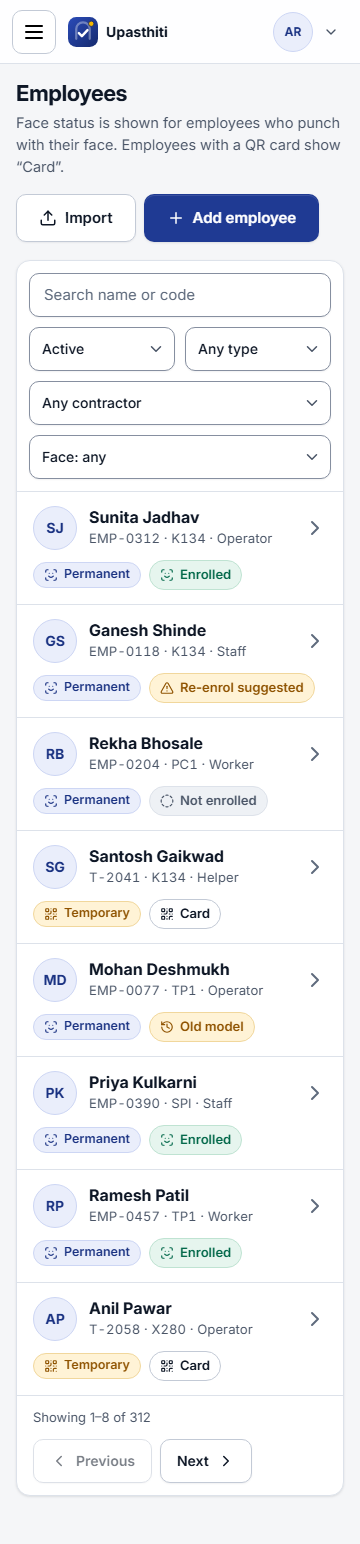
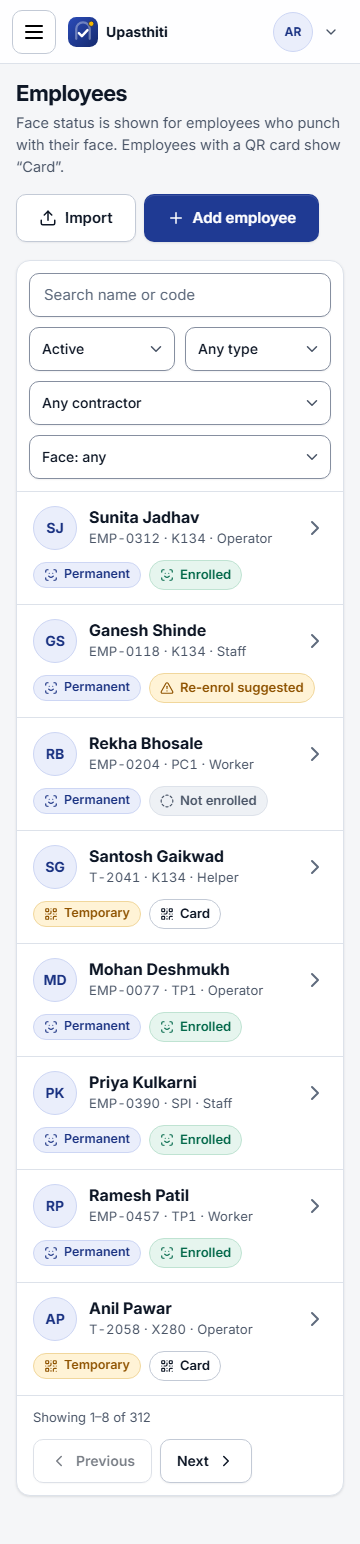
feat(face): five enrolment poses and a one hour idle limit (decision 0018), mockups without sample old-model rows

Changed region(s): [[0.3972, 0.6528, 0.7028, 0.6839]]

diff --git a/docs/design-refs/m3/gate-b/04-employees-list.html b/docs/design-refs/m3/gate-b/04-employees-list.html
@@ -40,7 +40,7 @@
     ["Ganesh Shinde", "EMP-0118", "permanent", "K134", "Staff", "General", "reenrol"],
     ["Rekha Bhosale", "EMP-0204", "permanent", "PC1", "Worker", "General", "none"],
     ["Santosh Gaikwad", "T-2041", "temporary", "K134", "Helper", "General", "card"],
-    ["Mohan Deshmukh", "EMP-0077", "permanent", "TP1", "Operator", "General", "old"],
+    ["Mohan Deshmukh", "EMP-0077", "permanent", "TP1", "Operator", "General", "enrolled"],
     ["Priya Kulkarni", "EMP-0390", "permanent", "SPI", "Staff", "General", "enrolled"],
     ["Ramesh Patil", "EMP-0457", "permanent", "TP1", "Worker", "General", "enrolled"],
     ["Anil Pawar", "T-2058", "temporary", "X280", "Operator", "General", "card"],
@@ -54,11 +54,11 @@
   function toolbar(state) {
     const faceVal = state === "filtered" ? "Face: Re-enrol suggested" : "Face: any";
     const pop = state === "filter-open" ? `<div class="pop" role="listbox" aria-label="Face filter">
-      <div class="sel-on" role="option" aria-selected="true"><i data-lucide="check"></i>Any<span class="count">312</span></div>
-      <div role="option"><i data-lucide="scan-face"></i>Enrolled<span class="count">198</span></div>
-      <div role="option"><i data-lucide="circle-dashed"></i>Not enrolled<span class="count">64</span></div>
-      <div role="option"><i data-lucide="triangle-alert"></i>Re-enrol suggested<span class="count">9</span></div>
-      <div role="option"><i data-lucide="history"></i>Old model<span class="count">3</span></div></div>` : "";
+      <div class="sel-on" role="option" aria-selected="true"><i data-lucide="check"></i>Any</div>
+      <div role="option"><i data-lucide="scan-face"></i>Enrolled</div>
+      <div role="option"><i data-lucide="circle-dashed"></i>Not enrolled</div>
+      <div role="option"><i data-lucide="triangle-alert"></i>Re-enrol suggested</div>
+      <div role="option"><i data-lucide="history"></i>Old model</div></div>` : "";
     return `<div class="toolbar"><input class="input" type="search" placeholder="Search name or code" aria-label="Search name or code" />
       ${sel("Status", "Active")}${sel("Type", "Any type")}${sel("Contractor", "Any contractor")}
       <div style="position:relative">${sel("Face filter (new)", faceVal, state === "filtered" || state === "filter-open")}${pop}</div></div>`;

diff --git a/backend/tests/test_face_enrolment_api.py b/backend/tests/test_face_enrolment_api.py
@@ -57,6 +57,21 @@ def face_key() -> bytes:
     return decode_key(key.get_secret_value())
 
 
+def test_a_shot_restarts_the_one_hour_idle_clock(
+    boss: TestClient, db_session: Session, k134: PlantIds
+) -> None:
+    session_id = start(boss, new_employee(boss, k134))
+    row = db_session.get(FaceEnrolmentSession, uuid.UUID(session_id))
+    assert row is not None
+    row.expires_at = utc_now() + timedelta(minutes=5)  # nearly idle for an hour
+    db_session.commit()
+
+    shot(boss, session_id, "straight", person=8)
+
+    db_session.refresh(row)
+    assert row.expires_at > utc_now() + timedelta(minutes=55)
+
+
 def head_of(db_app: FastAPI, db_session: Session, plant: PlantIds) -> TestClient:
     head = client_for(db_app, db_session, Role.PLANT_HEAD, "plant.head")
     user = db_session.scalars(select(User).where(User.username == "plant.head")).one()
@@ -68,7 +83,7 @@ def head_of(db_app: FastAPI, db_session: Session, plant: PlantIds) -> TestClient
 # --- A full enrolment (AC-6) -----------------------------------------------------------------
 
 
-def test_eight_good_shots_make_one_encrypted_template(
+def test_five_good_shots_make_one_encrypted_template(
     boss: TestClient, db_session: Session, k134: PlantIds
 ) -> None:
     employee_id = new_employee(boss, k134)
@@ -77,12 +92,12 @@ def test_eight_good_shots_make_one_encrypted_template(
     answers = [shot(boss, session_id, pose, person=3).json() for pose in POSE_FRAMES]
     finished = boss.post(f"/api/v1/face/enrolment-sessions/{session_id}/finish", json={})
 
-    assert [answer["accepted"] for answer in answers] == [True] * 8
-    assert [answer["shots_done"] for answer in answers] == list(range(1, 9))
+    assert [answer["accepted"] for answer in answers] == [True] * 5
+    assert [answer["shots_done"] for answer in answers] == list(range(1, 6))
     assert answers[0]["next_pose"] == "left" and answers[-1]["next_pose"] is None
     assert answers[0]["quality"]["face_px"] == 240
     assert finished.status_code == 201, finished.text
-    assert finished.json()["template"]["shot_count"] == 8
+    assert finished.json()["template"]["shot_count"] == 5
     assert finished.json()["replaced_previous"] is False
 
     template = db_session.scalars(select(FaceTemplate)).one()
@@ -273,9 +288,9 @@ def test_another_super_admin_cannot_use_my_session(
     assert response.json()["error"]["code"] == "ENROLMENT_SESSION_NOT_FOUND"
 
 
-def test_finish_needs_all_eight_shots(boss: TestClient, k134: PlantIds) -> None:
+def test_finish_needs_all_five_shots(boss: TestClient, k134: PlantIds) -> None:
     session_id = start(boss, new_employee(boss, k134))
-    for pose in list(POSE_FRAMES)[:7]:
+    for pose in list(POSE_FRAMES)[:4]:
         shot(boss, session_id, pose, person=8)
 
     response = boss.post(f"/api/v1/face/enrolment-sessions/{session_id}/finish", json={})

diff --git a/backend/app/modules/face/enrolment_service.py b/backend/app/modules/face/enrolment_service.py
@@ -1,10 +1,11 @@
-"""Face enrolment by the Super Admin: a session, 8 checked shots, then one template (spec M3 §7
+"""Face enrolment by the Super Admin: a session, 5 checked shots, then one template (spec M3 §7
 rule 4, F-39, AC-6 to AC-8, AC-35).
 
-Each accepted shot keeps only its embedding, encrypted, for at most the session's 15 minutes;
-the picture is dropped as soon as the checks are done. Finishing averages the 8 embeddings into
-the template, checks that the face is not already enrolled under another employee, and stores
-the template encrypted with FACE_TEMPLATE_KEY. The shots are then deleted.
+Each accepted shot keeps only its embedding, encrypted, while the session is open (it closes
+after an hour without activity); the picture is dropped as soon as the checks are done.
+Finishing averages the 5 embeddings into the template, checks that the face is not already
+enrolled under another employee, and stores the template encrypted with FACE_TEMPLATE_KEY. The
+shots are then deleted.
 """
 
 import base64
@@ -61,7 +62,9 @@ from app.modules.settings.service import get_float_setting, get_int_setting
 
 logger = logging.getLogger(__name__)
 
-SESSION_MINUTES = 15
+# An open session closes after this long without a shot. The admin sees no countdown; this only
+# makes sure a forgotten, half-finished enrolment does not keep face data (decision 0018).
+SESSION_IDLE_MINUTES = 60
 MAX_SHOT_BYTES = 150 * 1024
 MAX_DUPLICATES_SHOWN = 3
 RE_ENROLLED_REASON = "Enrolled again"
@@ -117,7 +120,7 @@ def start_session(
         consent_id=consent.id,
         started_by=actor.actor_id,
         started_at=now,
-        expires_at=now + timedelta(minutes=SESSION_MINUTES),
+        expires_at=now + timedelta(minutes=SESSION_IDLE_MINUTES),
         model_id=model_id,
         state=EnrolmentState.OPEN.value,
         accepted_shots=0,
@@ -191,6 +194,8 @@ def add_shot(
         row.refused_shots += 1
         shots_done = len(shots)
         done_poses = set(shots)
+    # Every shot restarts the idle clock.
+    row.expires_at = utc_now() + timedelta(minutes=SESSION_IDLE_MINUTES)
     session.commit()
     next_pose = next((name for name in ENROLMENT_POSES if name not in done_poses), None)
     return ShotAnswer(result=result, shots_done=shots_done, next_pose=next_pose)
@@ -271,7 +276,7 @@ def finish(
     key = face_key()
     shots = _shots_by_pose(session, row.id)
     if set(shots) != set(ENROLMENT_POSES):
-        raise ApiError("ENROLMENT_INCOMPLETE", "All 8 shots are needed.", 409)
+        raise ApiError("ENROLMENT_INCOMPLETE", "All 5 shots are needed.", 409)
 
     template_vector = mean_template([_open_shot(shot, row.id, key) for shot in shots.values()])
     duplicates = find_duplicates(session, template_vector, row.model_id, employee.id, key)

diff --git a/backend/migrations/versions/0014_five_enrolment_poses.py b/backend/migrations/versions/0014_five_enrolment_poses.py
@@ -1,0 +1,47 @@
+"""Five enrolment poses instead of eight (decision 0018).
+
+Revision ID: 0014
+Revises: 0013
+Create Date: 2026-10-24 12:00:00+00:00
+"""
+
+from collections.abc import Sequence
+
+from alembic import op
+
+revision: str = "0014"
+down_revision: str | Sequence[str] | None = "0013"
+branch_labels: str | Sequence[str] | None = None
+depends_on: str | Sequence[str] | None = None
+
+NEW_POSES = "'straight', 'left', 'right', 'up', 'down'"
+OLD_POSES = "'straight', 'left', 'right', 'up', 'down', 'closer', 'farther', 'work_wear'"
+
+
+def upgrade() -> None:
+    # Shots of the removed poses only live inside an open session: drop them first.
+    op.execute("DELETE FROM face_enrolment_shots WHERE pose IN ('closer', 'farther', 'work_wear')")
+    op.drop_constraint(
+        op.f("ck_face_enrolment_shots_pose_known"), "face_enrolment_shots", type_="check"
+    )
+    op.create_check_constraint(
+        op.f("ck_face_enrolment_shots_pose_known"), "face_enrolment_shots", f"pose IN ({NEW_POSES})"
+    )
+    # Templates already saved with 8 shots stay valid, so the range goes up to 10.
+    op.drop_constraint(op.f("ck_face_templates_shot_count_range"), "face_templates", type_="check")
+    op.create_check_constraint(
+        op.f("ck_face_templates_shot_count_range"), "face_templates", "shot_count BETWEEN 5 AND 10"
+    )
+
+
+def downgrade() -> None:
+    op.drop_constraint(op.f("ck_face_templates_shot_count_range"), "face_templates", type_="check")
+    op.create_check_constraint(
+        op.f("ck_face_templates_shot_count_range"), "face_templates", "shot_count BETWEEN 8 AND 10"
+    )
+    op.drop_constraint(
+        op.f("ck_face_enrolment_shots_pose_known"), "face_enrolment_shots", type_="check"
+    )
+    op.create_check_constraint(
+        op.f("ck_face_enrolment_shots_pose_known"), "face_enrolment_shots", f"pose IN ({OLD_POSES})"
+    )

diff --git a/backend/app/modules/face/models.py b/backend/app/modules/face/models.py
@@ -28,7 +28,7 @@ from sqlalchemy.orm import Mapped, mapped_column
 from app.core.db import Base
 from app.core.model_mixins import IdMixin, TimestampMixin
 
-ENROLMENT_POSES = ("straight", "left", "right", "up", "down", "closer", "farther", "work_wear")
+ENROLMENT_POSES = ("straight", "left", "right", "up", "down")
 REQUIRED_SHOTS = len(ENROLMENT_POSES)
 
 
@@ -126,7 +126,7 @@ class FaceTemplate(IdMixin, TimestampMixin, Base):
     __table_args__ = (
         CheckConstraint("key_id ~ '^[A-Z]$'", name="key_id_format"),
         CheckConstraint(
-            f"shot_count BETWEEN {REQUIRED_SHOTS} AND {REQUIRED_SHOTS + 2}",
+            f"shot_count BETWEEN {REQUIRED_SHOTS} AND 10",
             name="shot_count_range",
         ),
         # The face data and the "deleted" mark always go together: a row cannot be both.
@@ -210,7 +210,7 @@ class FaceEnrolmentSession(IdMixin, TimestampMixin, Base):
     consent_id: Mapped[uuid.UUID] = mapped_column(ForeignKey("face_consents.id"))
     started_by: Mapped[uuid.UUID] = mapped_column(ForeignKey("users.id"))
     started_at: Mapped[datetime] = mapped_column(DateTime(timezone=True))
-    expires_at: Mapped[datetime] = mapped_column(DateTime(timezone=True))  # started_at + 15 min
+    expires_at: Mapped[datetime] = mapped_column(DateTime(timezone=True))  # last shot + 1 hour idle
     model_id: Mapped[str] = mapped_column(String(60))
     state: Mapped[str] = mapped_column(String(10), default=EnrolmentState.OPEN.value)
     finished_template_id: Mapped[uuid.UUID | None] = mapped_column(ForeignKey("face_templates.id"))

diff --git a/backend/tests/test_face_tables.py b/backend/tests/test_face_tables.py
@@ -76,7 +76,7 @@ def make_template(
         "key_id": "A",
         "nonce": NONCE,
         "ciphertext": b"c" * 2064,
-        "shot_count": 8,
+        "shot_count": 5,
         "enrolled_by": admin_id,
         "enrolled_at": utc_now(),
     }
@@ -230,7 +230,7 @@ def test_deleting_a_template_must_remove_the_face_data(
     ("changes", "constraint"),
     [
         ({"key_id": "a"}, "ck_face_templates_key_id_format"),
-        ({"shot_count": 7}, "ck_face_templates_shot_count_range"),
+        ({"shot_count": 4}, "ck_face_templates_shot_count_range"),
         ({"shot_count": 11}, "ck_face_templates_shot_count_range"),
         ({"nonce": b"too short"}, "ck_face_templates_nonce_length"),
         ({"delete_kind": "left"}, "ck_face_templates_delete_pair"),
@@ -348,7 +348,7 @@ def test_a_session_has_one_shot_per_pose_and_only_known_poses(
         make_shot(db_session, row, "selfie")
     with refused("ck_face_enrolment_shots_nonce_length"), db_session.begin_nested():
         make_shot(db_session, row, "left", nonce=b"short")
-    assert len(ENROLMENT_POSES) == 8
+    assert len(ENROLMENT_POSES) == 5
 
 
 def test_deleting_a_session_removes_its_shots(

diff --git a/backend/app/modules/face/schemas.py b/backend/app/modules/face/schemas.py
@@ -66,7 +66,7 @@ class StartEnrolmentResponse(BaseModel):
 
 
 class ShotRequest(BaseModel):
-    pose: Literal["straight", "left", "right", "up", "down", "closer", "farther", "work_wear"]
+    pose: Literal["straight", "left", "right", "up", "down"]
     # base64 JPEG; the decoded size (at most 150 KB) and the width are checked by the server.
     image_jpeg: str = Field(min_length=1, max_length=256 * 1024)
 

diff --git a/backend/app/face/enrolment_checks.py b/backend/app/face/enrolment_checks.py
@@ -26,7 +26,7 @@ TURN_MIN_YAW = 8.0
 TURN_MAX_YAW = 30.0
 # "Chin up / down": the nose must move this share of the eye-to-mouth distance.
 PITCH_CHANGE = 0.06
-STRAIGHT_POSES = ("straight", "closer", "farther", "work_wear")
+STRAIGHT_POSES = ("straight",)
 SHOT_MIN_WIDTH, SHOT_MAX_WIDTH = 480, 1280
 SHOT_MIN_HEIGHT, SHOT_MAX_HEIGHT = 360, 1600
 

diff --git a/backend/tests/face_helpers.py b/backend/tests/face_helpers.py
@@ -20,9 +20,6 @@ POSE_FRAMES = {  # enrolment pose -> (yaw, pitch) of the painted picture
     "right": (-20, 0),
     "up": (0, 20),
     "down": (0, -20),
-    "closer": (0, 0),
-    "farther": (0, 0),
-    "work_wear": (0, 0),
 }
 
 

diff --git a/docs/plans/M3-face-attendance-plan.md b/docs/plans/M3-face-attendance-plan.md
@@ -345,10 +345,17 @@ safety glasses; spoof attempts (AC-17); voice and tones on the face results; key
   - Slice C backend (steps 24-25): punch log face filters, summary counts, Super Admin face
     detail, code-path photo, F-30 face-in-photo check (background), F-41 re-enrol hint.
   - Spec change: new error code `COMPANY_ADDRESS_MISSING` (consent needs the company address).
-- Next: design gates B, A and C (HTML mockups for the lead), then the frontend steps 15, 22 and
-  27, the e2e specs (16, 23, 27), then slice D (accuracy run, CI memory test S-30, coverage 80,
-  docs).
-- Test results: backend 946 passed, coverage 91% (floor 75%).
+- Done (2026-10-24, session 2, Anuradha): design gate B mockups (`docs/design-refs/m3/gate-b/`,
+  waiting for the lead's final look) and decision 0018: **5 enrolment poses** (straight, left, right,
+  up, down), no timer on screen, session closes after **1 hour without activity** (every shot
+  restarts the clock), migration 0014, spec and tests updated. The "Old model" badge, filter and
+  panel state stay: the state is computed from the template's stored model id against the running
+  model (`buffalo_s`), so it is empty today.
+- Next: lead approves gate B screenshots, then frontend step 15 (use 5 poses, no timer; the
+  `expired` screen stays as the fallback), then design gates A and C, frontend steps 22 and 27, the
+  e2e specs (16, 23, 27), then slice D (accuracy run, CI memory test S-30, coverage 80, docs).
+- Test results: backend 935 passed, 7 skipped (full run before the last three test fixes; those
+  three files re-run green).
 - Open questions: none blocking. Reminders: `buffalo_s` accuracy (NFR-05) is measured in slice D;
   the head-turn sign (+ = the person's own left) must be confirmed with real team frames in slice
   D; the CelebA-Spoof candidate has no stable ONNX link yet; `FACE_TEMPLATE_KEY` must be set on

diff --git a/docs/design-refs/m3/gate-b/notes.md b/docs/design-refs/m3/gate-b/notes.md
@@ -150,3 +150,11 @@ oval colours on the camera (white dashed, green, red, yellow) are never the only
    showing any real person.
 8. **Dark mode** is not drawn (the design direction is light).
 9. The state "Enrolled" shows the model name `buffalo_l` as text; fine for an admin, but it could move to a "More" line if it looks technical.
+
+## Update after the lead's feedback (decision 0018)
+- Enrolment has **5 poses** (straight, left, right, up, down); no timer on screen; the helmet tip is gone.
+- **"Old model"** stays (badge, filter, panel state, re-enrol) for a future model change. It is computed by
+  the server from the model id stored with each template compared with the model now running
+  (`buffalo_s`), so it is empty today. The sample list rows therefore show no "Old model" row, and the
+  filter shows no counts. The `old-model` state of the face panel is a design of the state only: it
+  appears after a model change, never for a `buffalo_s` template.
